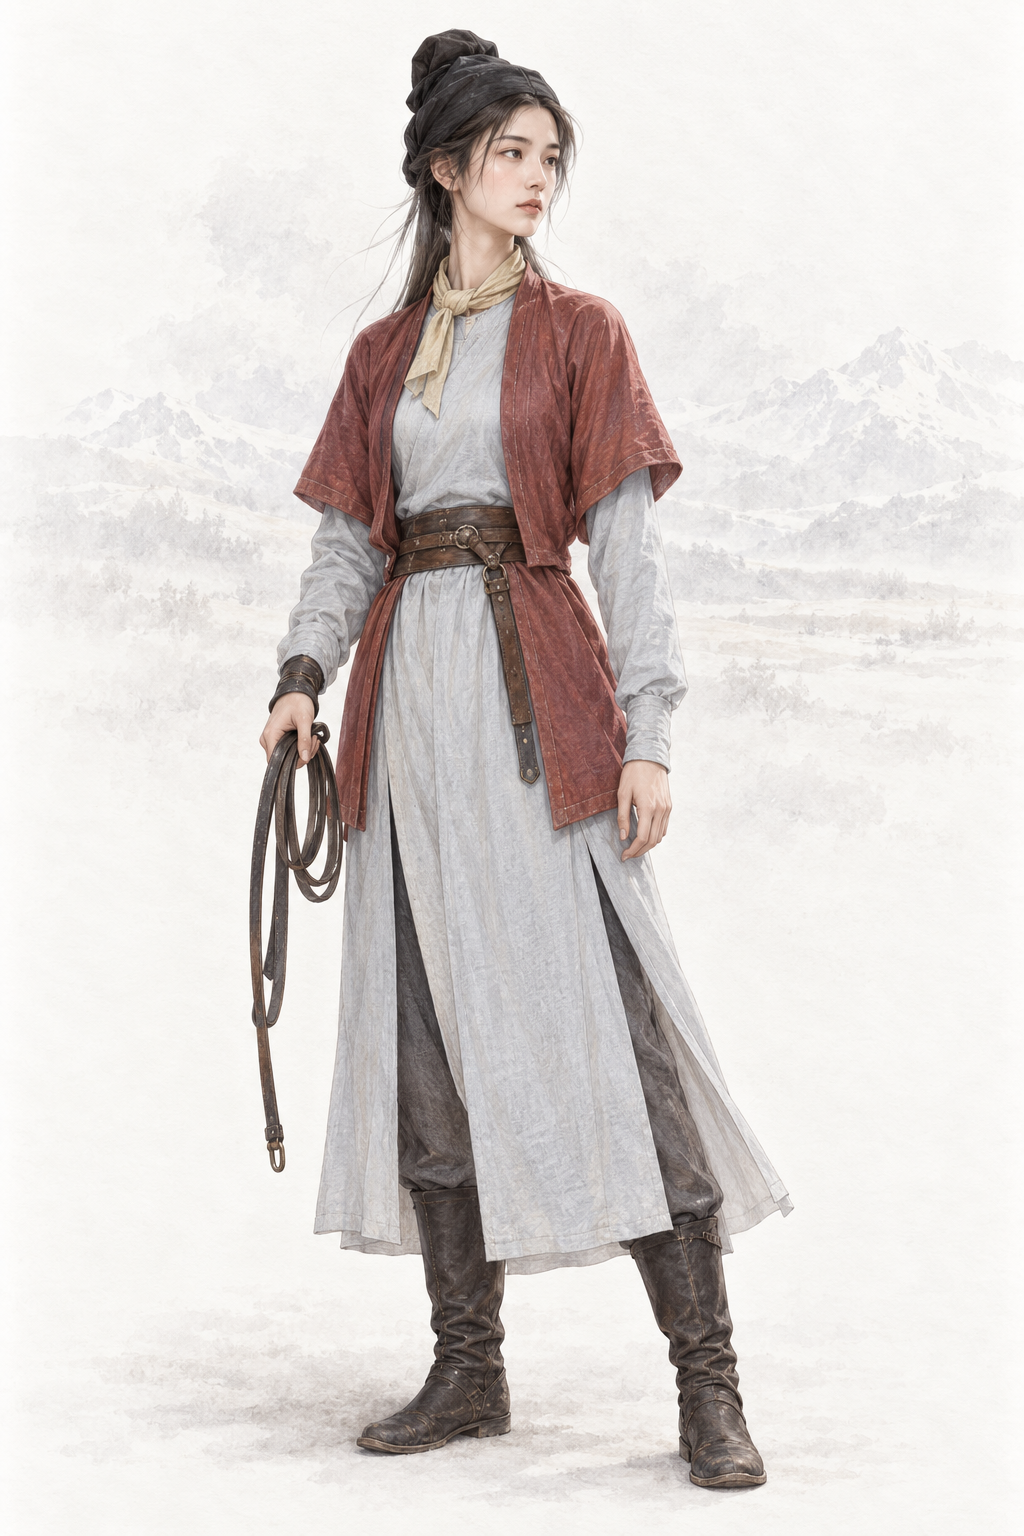
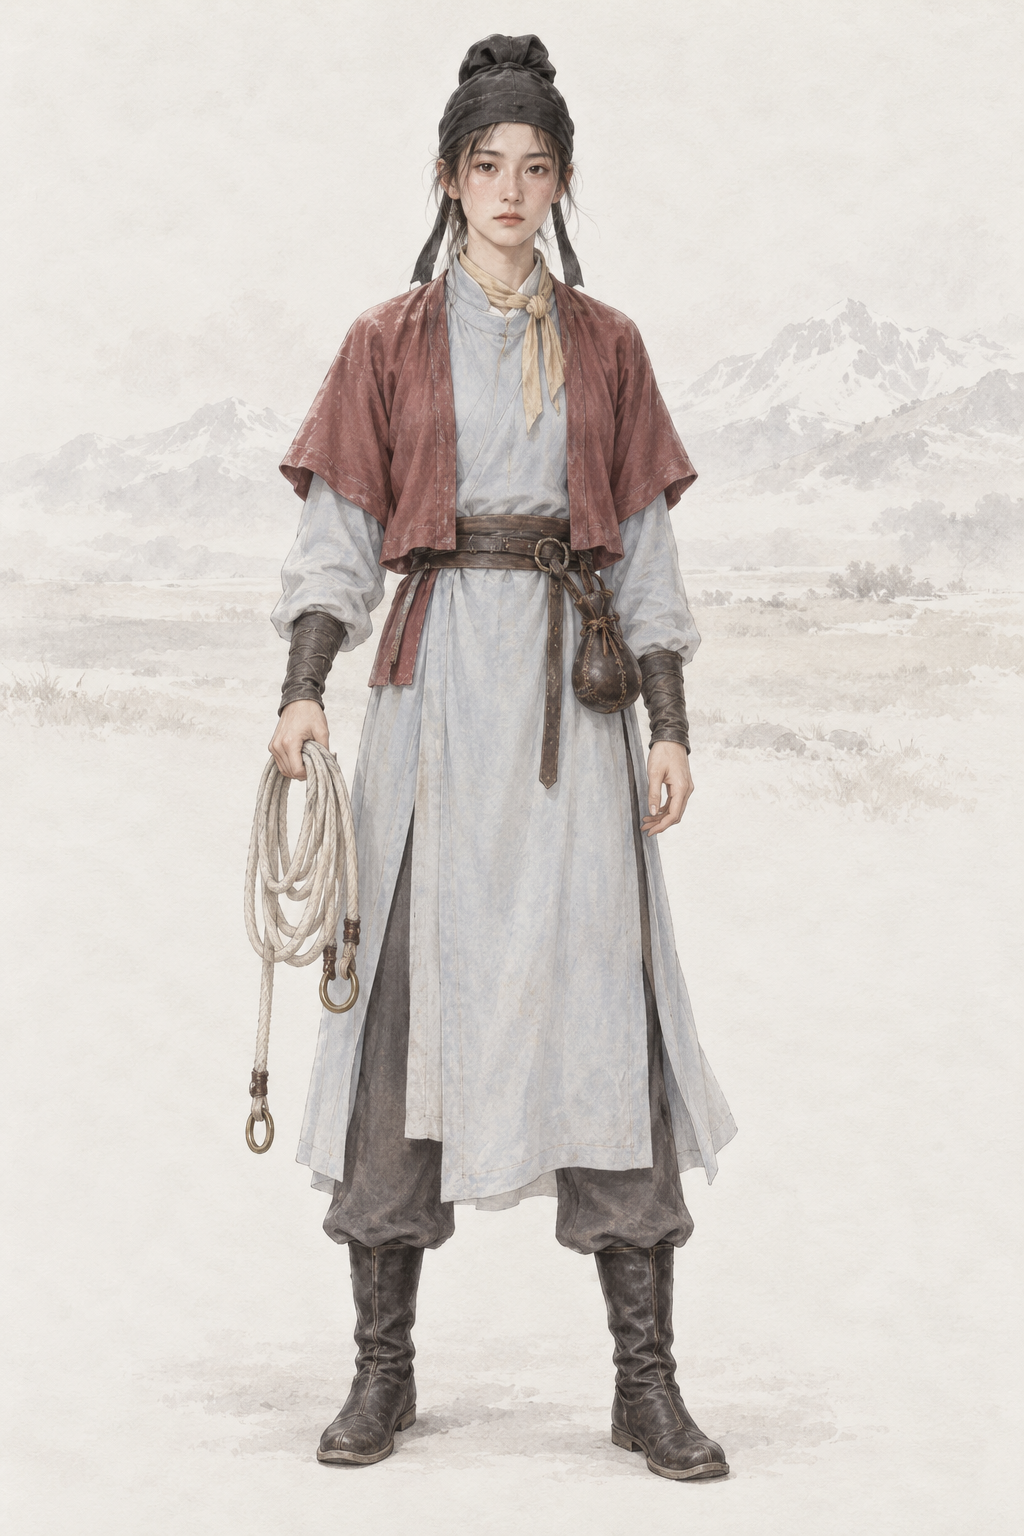
assets(character): por_npc_liwenxiu__ch10_youth_astuo_base 李文秀（codex · AR-32 文字 + 基线）
本人无可用剧照或可靠游戏头像，只用文字与两张同性别基线重出；提示词写回、frontmatter 加 classic_ref。

diff --git a/assets/default/prompts/characters/ch10-baima/npc_liwenxiu.md b/assets/default/prompts/characters/ch10-baima/npc_liwenxiu.md
@@ -15,14 +15,38 @@ references:
   use: 已实际查看的用户自生成水墨风格参考，仅取精细笔墨、衣料层染与淡雅设色；不继承人物身份、年龄脸型、白衣淡青配色、披发首饰或山水背景。
 status: redo
 redo_reason: "白马改唐代（DES-baima-tang 合入）：旧图是清初剃发留辫 / 瓜皮帽 / 清式袍褂，且男女各自同脸；按唐代名录 §2 的发式、服色与标志物重出，脸部按 C 组报告 §1 区分。"
+codex_prompt_rev: 2026-10-02
 reference_upload:
 - assets/default/baseline/character/female/ref_npc_wangyuyan__ch01_base01.png
-codex_prompt_rev: 2026-10-02
+- assets/default/baseline/character/female/ref_npc_xiaolongnv__ch03_base01.png
+classic_ref: "无（白马已改唐代 AR-26，不用清代剧照；《金庸群侠传》里没有可靠的本人头像，只用文字与基线，按 docs/design/catalog/npcs-ch10-baima.md §2 与 chapters/10-baima.md §8.9 的唐代设定）"
 ---
 
 # 李文秀 · 《白马啸西风》（ch10）
 
 ## Gemini 提示词
+
+> 2026-10-02 AR-32 重出（8 号出图员，codex exec · image_gen）：本人没有可用的经典剧照或可靠游戏头像，只用文字与两张同性别画风基线（缩小版 JPEG，放在最后上传）；按原著与设定重写人物描写，去 AI 味、禁止幼态。上一版保留在下一节作历史。
+
+```text
+生成一张 2:3 竖幅全身人物立绘：单人、单一视角、完整全身——头顶、双手、双脚和手中器物的两端都在画面内，四周留出自然空白；人物站姿自然，身体基本朝向正面，头部端正（不歪头、不仰不俯），镜头平视。
+【参考图】随提示词上传的两张参考图都是本项目的立绘画风基线：画风、用色、光线、质感和暖浅灰纸底加淡水墨背景以它们为准；它们只管画风，不取长相、年龄、发型、服饰和姿势。人物的长相和造型完全按下面的文字来画。
+【画风】写实手绘古风人物插画，与本项目写实武侠角色立绘同一画风，像功力深厚的画师用细腻笔触画出的真实人物。手绘插画质感，不是 CG 渲染：不要过度光滑的皮肤、完美对称的五官、塑料高光、过度锐利的发丝；保留自然的笔触和细微不完美。皮肤有真实质感——细小毛孔、细纹、晒痕和自然的左右不对称，不磨皮、不油亮；头发是一缕缕自然的发丝和少量碎发；布料看得出经纬纹理、厚薄和自然垂坠的褶皱，带穿用过的轻微旧化，但完整不破烂；整体设色低饱和、沉稳；柔和的自然光从左上方照来，明暗过渡自然，不打舞台光、轮廓光或美颜柔光。不是照片，不是三维渲染，不是动漫或游戏 CG，也不是油画（没有厚涂笔触和画布纹理）。
+【背景】不透明的暖浅灰色纸底，只在远处有极淡的水墨远山（西域雪山与草坡的远影）和薄雾，大面积留白；人物与背景明暗分明、轮廓边缘干净完整（后续要自动抠图），水墨和纸纹只在背景里，不侵入人物和衣服；脚下只有很淡的一点接触阴影。
+【人物】李文秀，《白马啸西风》的女主角，白马李三与上官虹的女儿，自幼流落庭州草原、寄居铁延部的汉人女剑手；已从华辉学成武功、化名「阿斯托」穿男式胡服行走的时期。
+【时代】唐代武周长安年间（约 702 年）的西域，西州—庭州一带（游戏设定）。服饰按唐代：汉人束发、戴软幞头或裹巾，穿圆领窄袖袍、半臂，骑行可穿翻领胡服；草原牧部（铁延部，突厥—铁勒背景的虚构牧部）穿翻领窄袖袍、长裤、软靴，编辫、戴毡帽。唐代汉人女子着男装胡服骑行是当时风尚。
+【年龄与体态】约二十岁的成年年轻女子，身形修长纤细、成人比例（约七头身），肩背灵活结实，有常年骑马的挺拔。
+【经典造型】草原风霜里长大的汉家女子：高束发戴黑色软幞头，一身月白窄袖胡服、外罩绛红半臂，手挽白马的缰绳，颈间一条无字的素黄小巾；清丽、坚韧，眉眼里有化不开的失落与温柔——是让人心疼的美丽女子。
+【面容】清秀的椭圆脸，下颌柔和而骨线清楚；眉毛舒展平直、眉尾干净；一双深棕色的杏眼清澈温和（自然大小），眼神里藏着失落，也有安静的决断；鼻梁秀直；嘴唇偏薄、被风吹得微干；两颊有草原日晒的淡红，素面不施脂粉。五官清丽而有个人特点，不是网红脸。
+【发式】乌黑长发高高束在头顶，外罩一顶黑色软幞头（唐代女子着男装的样子，幞头两脚短而软垂），两鬓干净，没有珠翠。
+【服饰】唐代女子男装骑行打扮：月白色圆领窄袖胡服袍（袍长及小腿，两侧开衩），外罩一件绛红色短半臂，腰束深褐革带、挂一只小皮囊，深灰长裤，黑色软皮高靴；颈间系一条素黄色线织小巾（巾上没有字）。
+【道具】右手挽着一盘白色马缰（缰绳末端垂下，马不在画面里）；左手自然垂在身侧。
+【姿态与神情】身体基本朝向正面、双脚稳立，目光温和而悠远。
+【不要】画面里不要任何文字、题款、印章、签名、水印、边框、分格或多视图；不要第二个人；不要幼态（童颜、娃娃脸、婴儿肥、儿童或少年身材、大头小身）；不要塑料感皮肤、磨皮美颜、网红脸（尖下巴大眼高鼻的模板脸）、过度对称、浓妆、偶像式打光、蜡像感；不要照片质感、三维渲染或动漫大眼；不要歪头、斜镜头；不要多指、缺指（设定的伤残除外）、手与器物粘连或悬空；衣襟必须右衽（穿着者的左襟压在右襟上），不要左衽（设定为少数民族服制的除外），不要水平镜像；不要现代物品、发光特效、法阵或能量光。不要清代剃发留辫、瓜皮帽、马褂、旗装或补服；不要明代网巾、宋代直脚幞头；不要现代民族礼服、伊斯兰式缠头或面纱、清真寺等后世宗教符号；不要用夸张的五官或肤色来表现族属。不要披帛长裙的仕女装；不要画出白马；不要长剑；不要和上官虹、阿曼同一张脸。
+【画风基线】随提示词上传的参考图里，最后两张是本项目的立绘画风基线：只参考它们的画风、用色、光线、质感和暖浅灰纸底加淡水墨的背景处理，整体画风必须与它们一致——精细写实的数字手绘插画，不是油画，不要厚涂笔触和画布纹理。基线图只取画风，不取长相：不要照搬基线图里人物的长相、年龄、发型、服饰和姿势。
+```
+
+## 白马唐代化版 Gemini 提示词（2026-10-02 凌晨，人物线 2 号；AR-32 重出之前，历史，不再用于出图）
 
 > 2026-10-02 白马唐代化重出（人物线 2 号）：依 `docs/design/catalog/npcs-ch10-baima.md` §2（逐人发式 / 服色 / 标志物）、`docs/design/chapters/10-baima.md` §8.9（唐代视觉语法）与 `tools/agents/reports/REVIEW-portraits-C-ch10-14.md` §1（脸部要点）改写；一律成年、去 AI 味。本轮出图只用下面这一段；下文旧稿是清初设定，只作历史与考据保留，不再用于出图。
 
